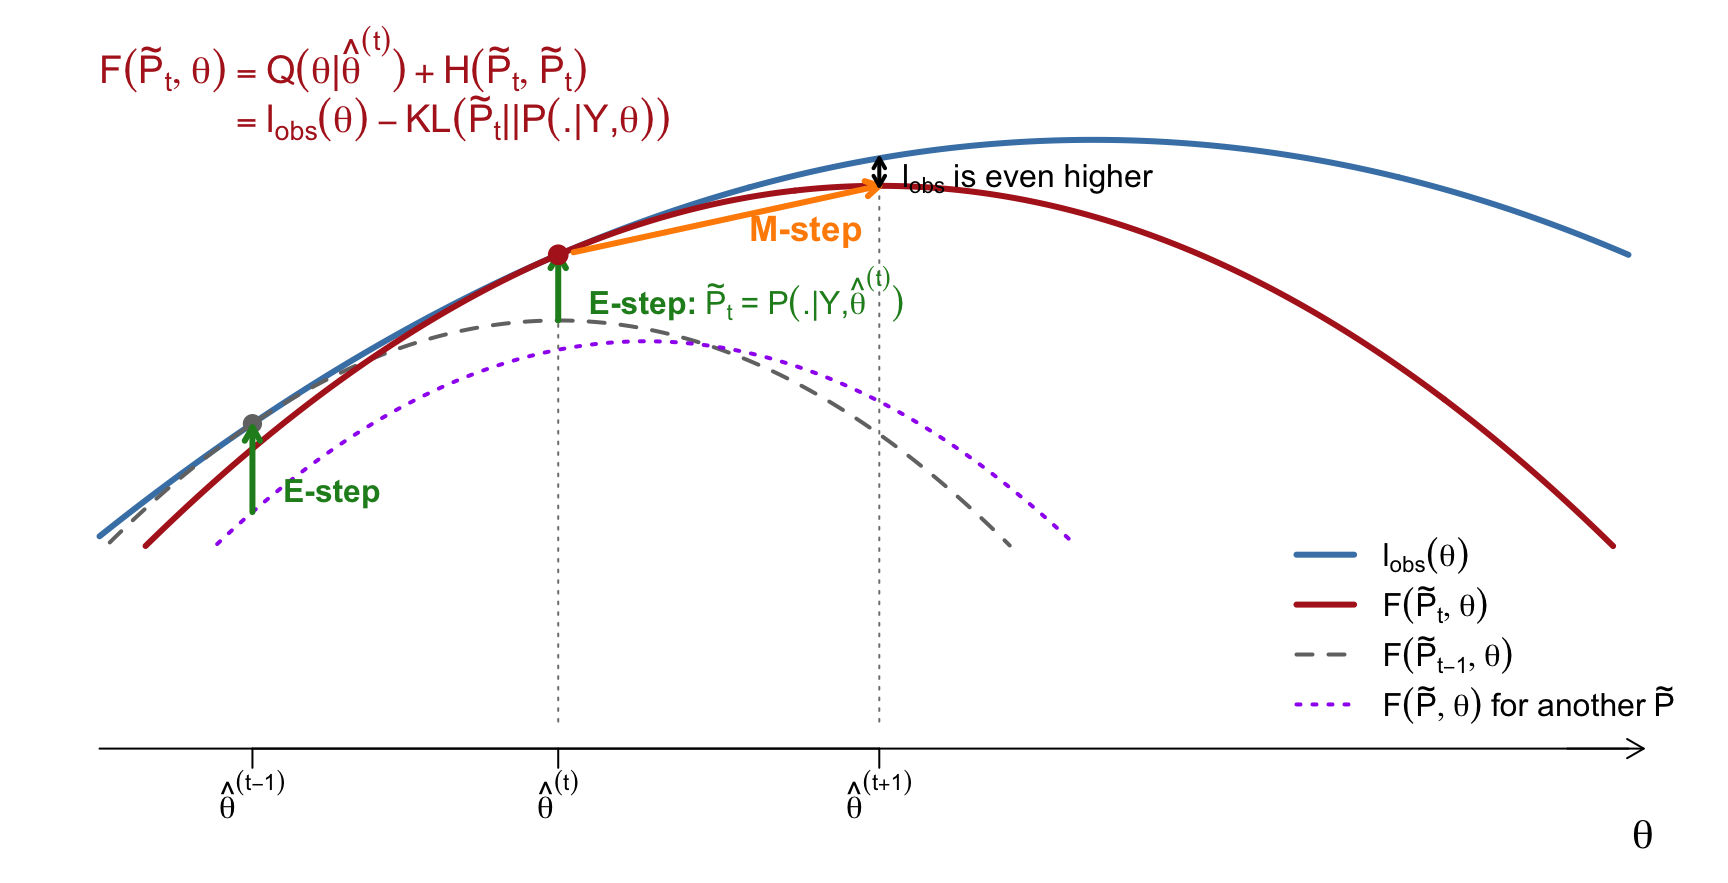
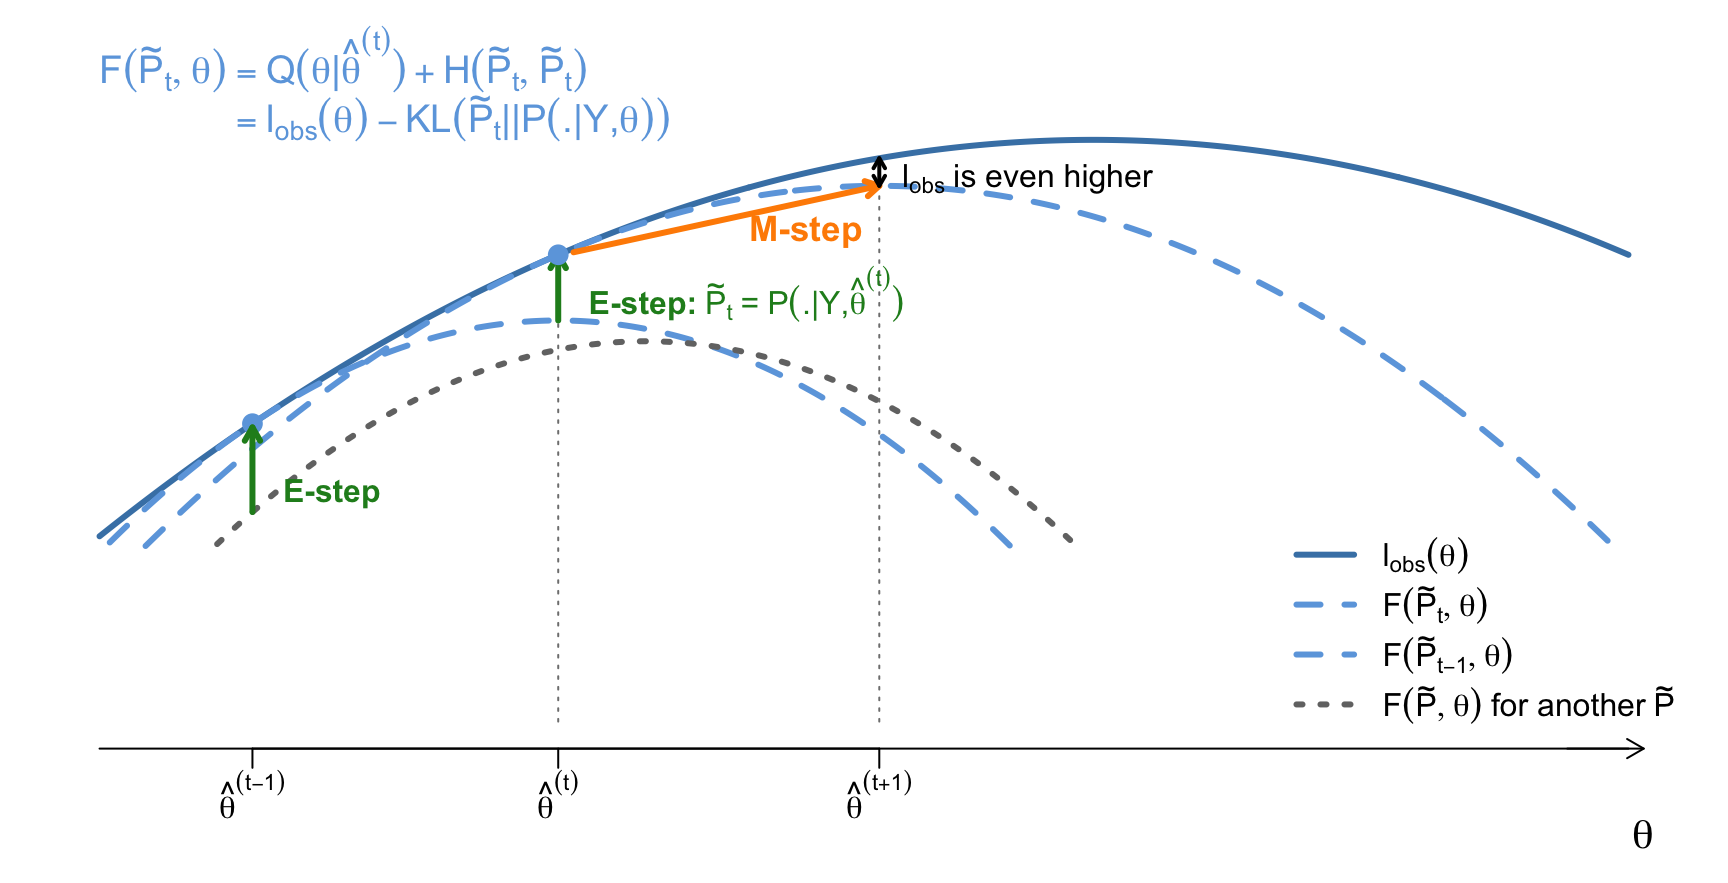
Lec_06_EM: consistent line styles in the E/M-step figure (solid blue l_obs, light-blue dashed F(P~_t), dotted gray other P~)
Claude-Session: https://claude.ai/code/session_01Wh2Ga1BaKajzeVmhsLmQ8Y

diff --git a/compstat_slides/Lec_06_EM.html b/compstat_slides/Lec_06_EM.html
@@ -6,8 +6,8 @@
 <script src="Lec_06_EM_files/libs/quarto-html/tippy.umd.min.js"></script>
 <link href="Lec_06_EM_files/libs/quarto-html/tippy.css" rel="stylesheet">
 <link href="Lec_06_EM_files/libs/quarto-html/light-border.css" rel="stylesheet">
-<link href="Lec_06_EM_files/libs/quarto-html/quarto-syntax-highlighting-64a204ab8560d761af7679ceaba22944.css" rel="stylesheet" id="quarto-text-highlighting-styles"><meta charset="utf-8">
-  <meta name="generator" content="quarto-1.10.18">
+<link href="Lec_06_EM_files/libs/quarto-html/quarto-syntax-highlighting-7f8f88aac4f3542376d5c11b86a4c14d.css" rel="stylesheet" id="quarto-text-highlighting-styles"><meta charset="utf-8">
+  <meta name="generator" content="quarto-1.9.37">
 
   <meta name="author" content="Longhai Li">
   <meta name="dcterms.date" content="2026-10-28">
@@ -21,13 +21,10 @@
     /* Default styles provided by pandoc.
     ** See https://pandoc.org/MANUAL.html#variables-for-html for config info.
     */
+    code{white-space: pre-wrap;}
     span.smallcaps{font-variant: small-caps;}
-    div.columns{display: flex; gap: 1.5em;}
-    div.column{flex: auto;}
-    @media screen {
-    div.columns{gap: min(4vw, 1.5em);}
-    div.column{overflow-x: auto;}
-    }
+    div.columns{display: flex; gap: min(4vw, 1.5em);}
+    div.column{flex: auto; overflow-x: auto;}
     div.hanging-indent{margin-left: 1.5em; text-indent: -1.5em;}
     ul.task-list{list-style: none;}
     ul.task-list li input[type="checkbox"] {
@@ -159,7 +156,7 @@
 <div class="quarto-title-authors">
 <div class="quarto-title-author">
 <div class="quarto-title-author-name">
-Longhai Li
+Longhai Li 
 </div>
 </div>
 </div>
